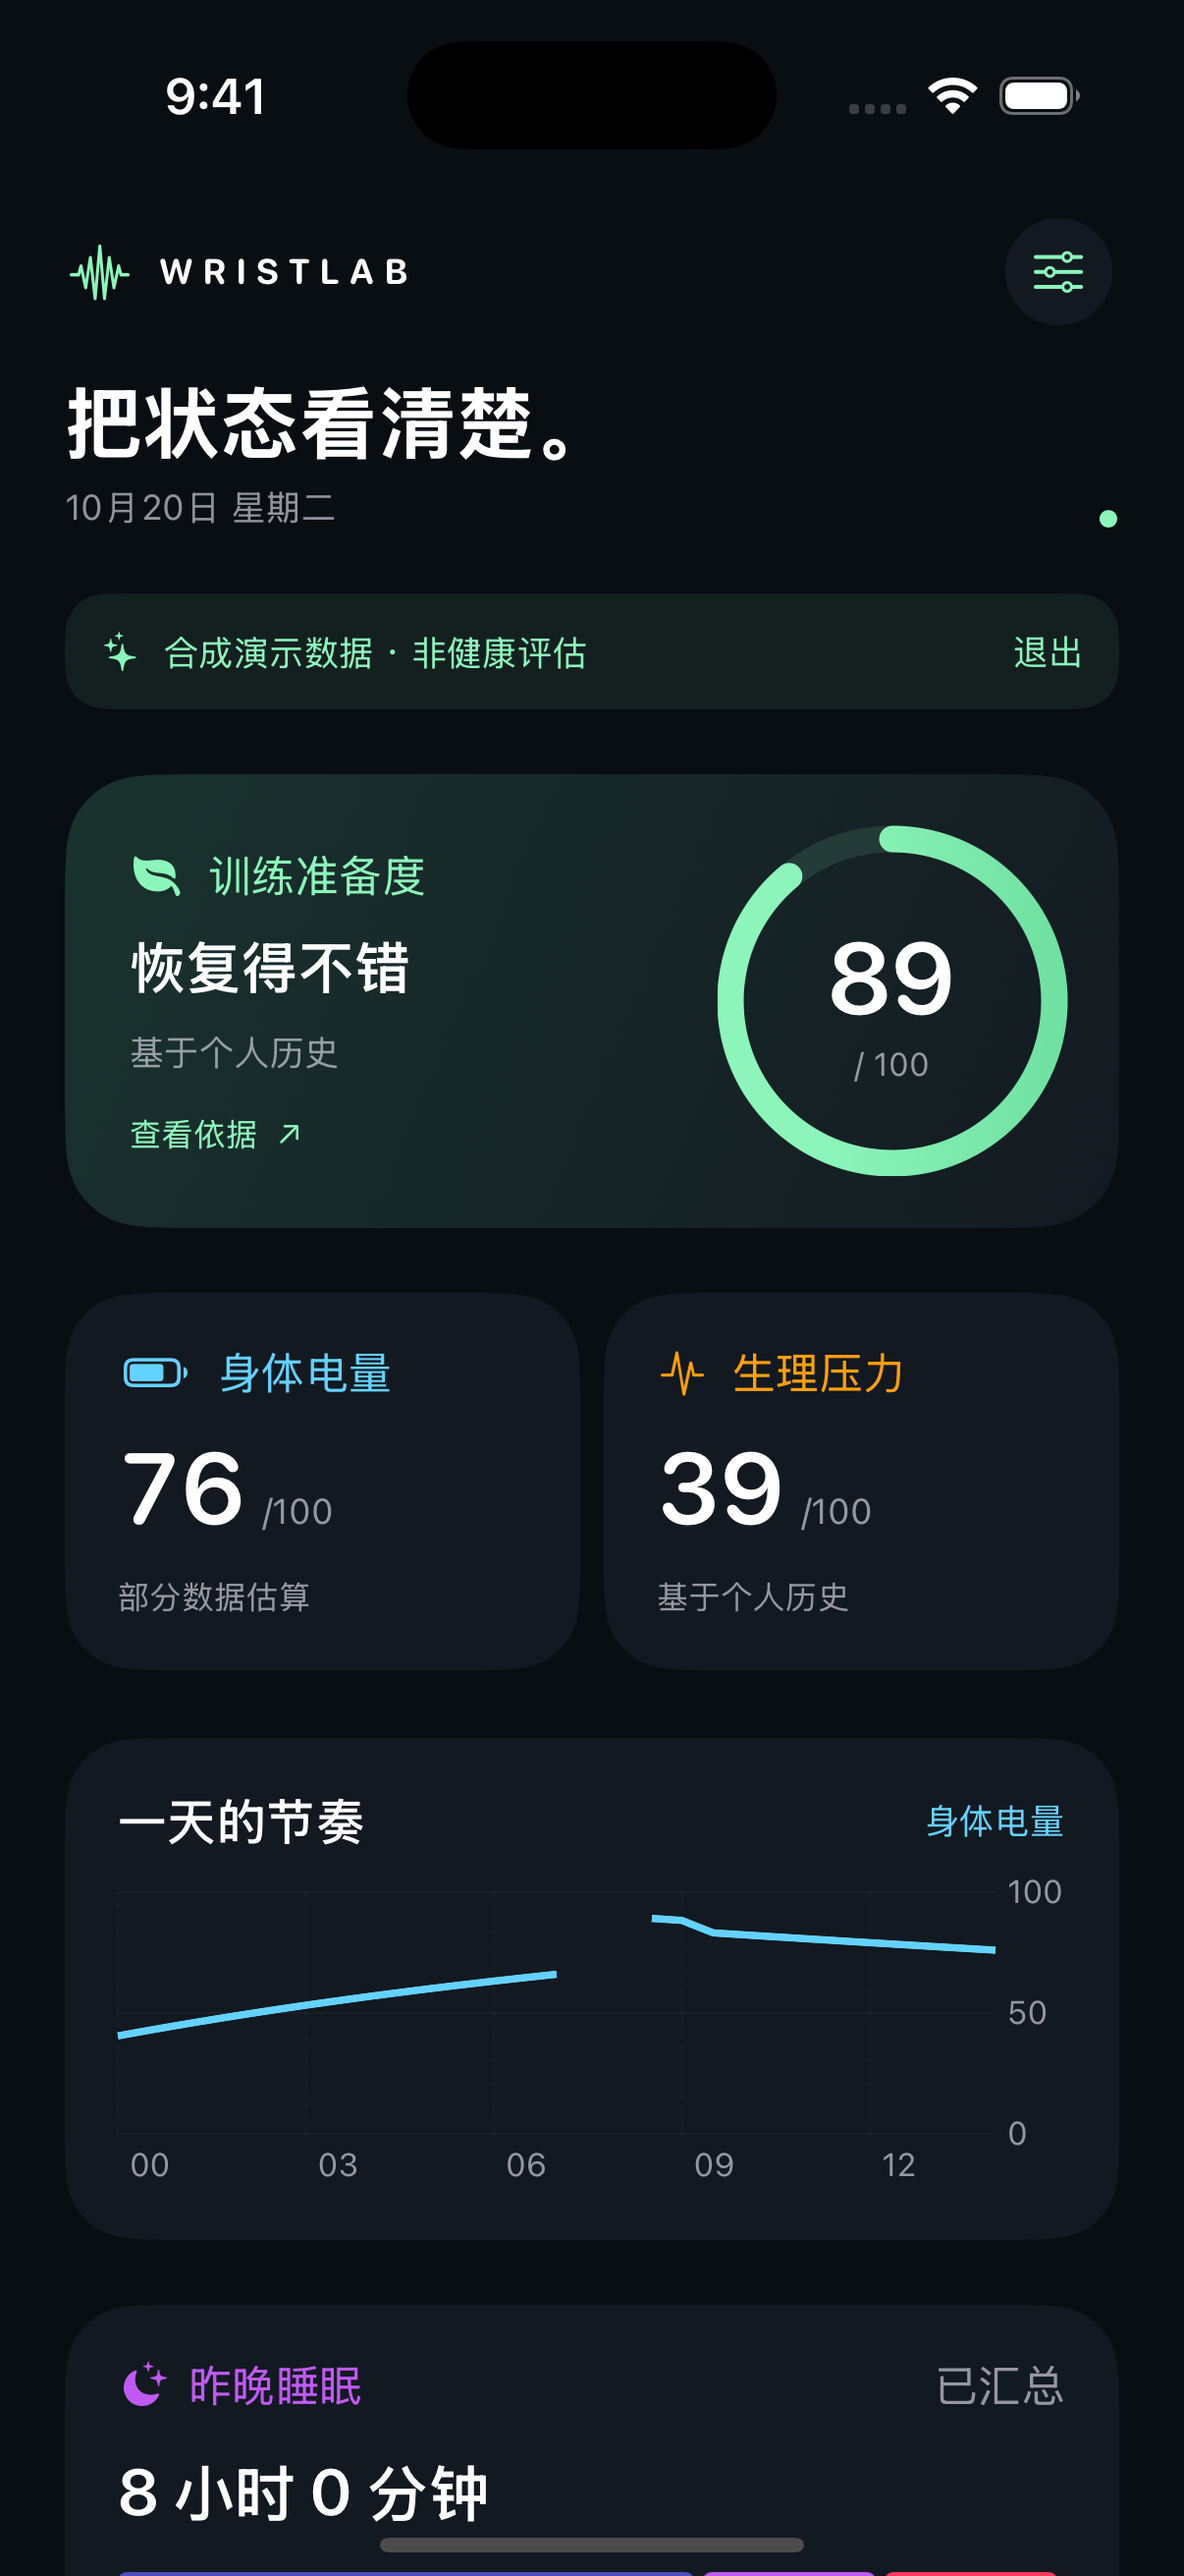
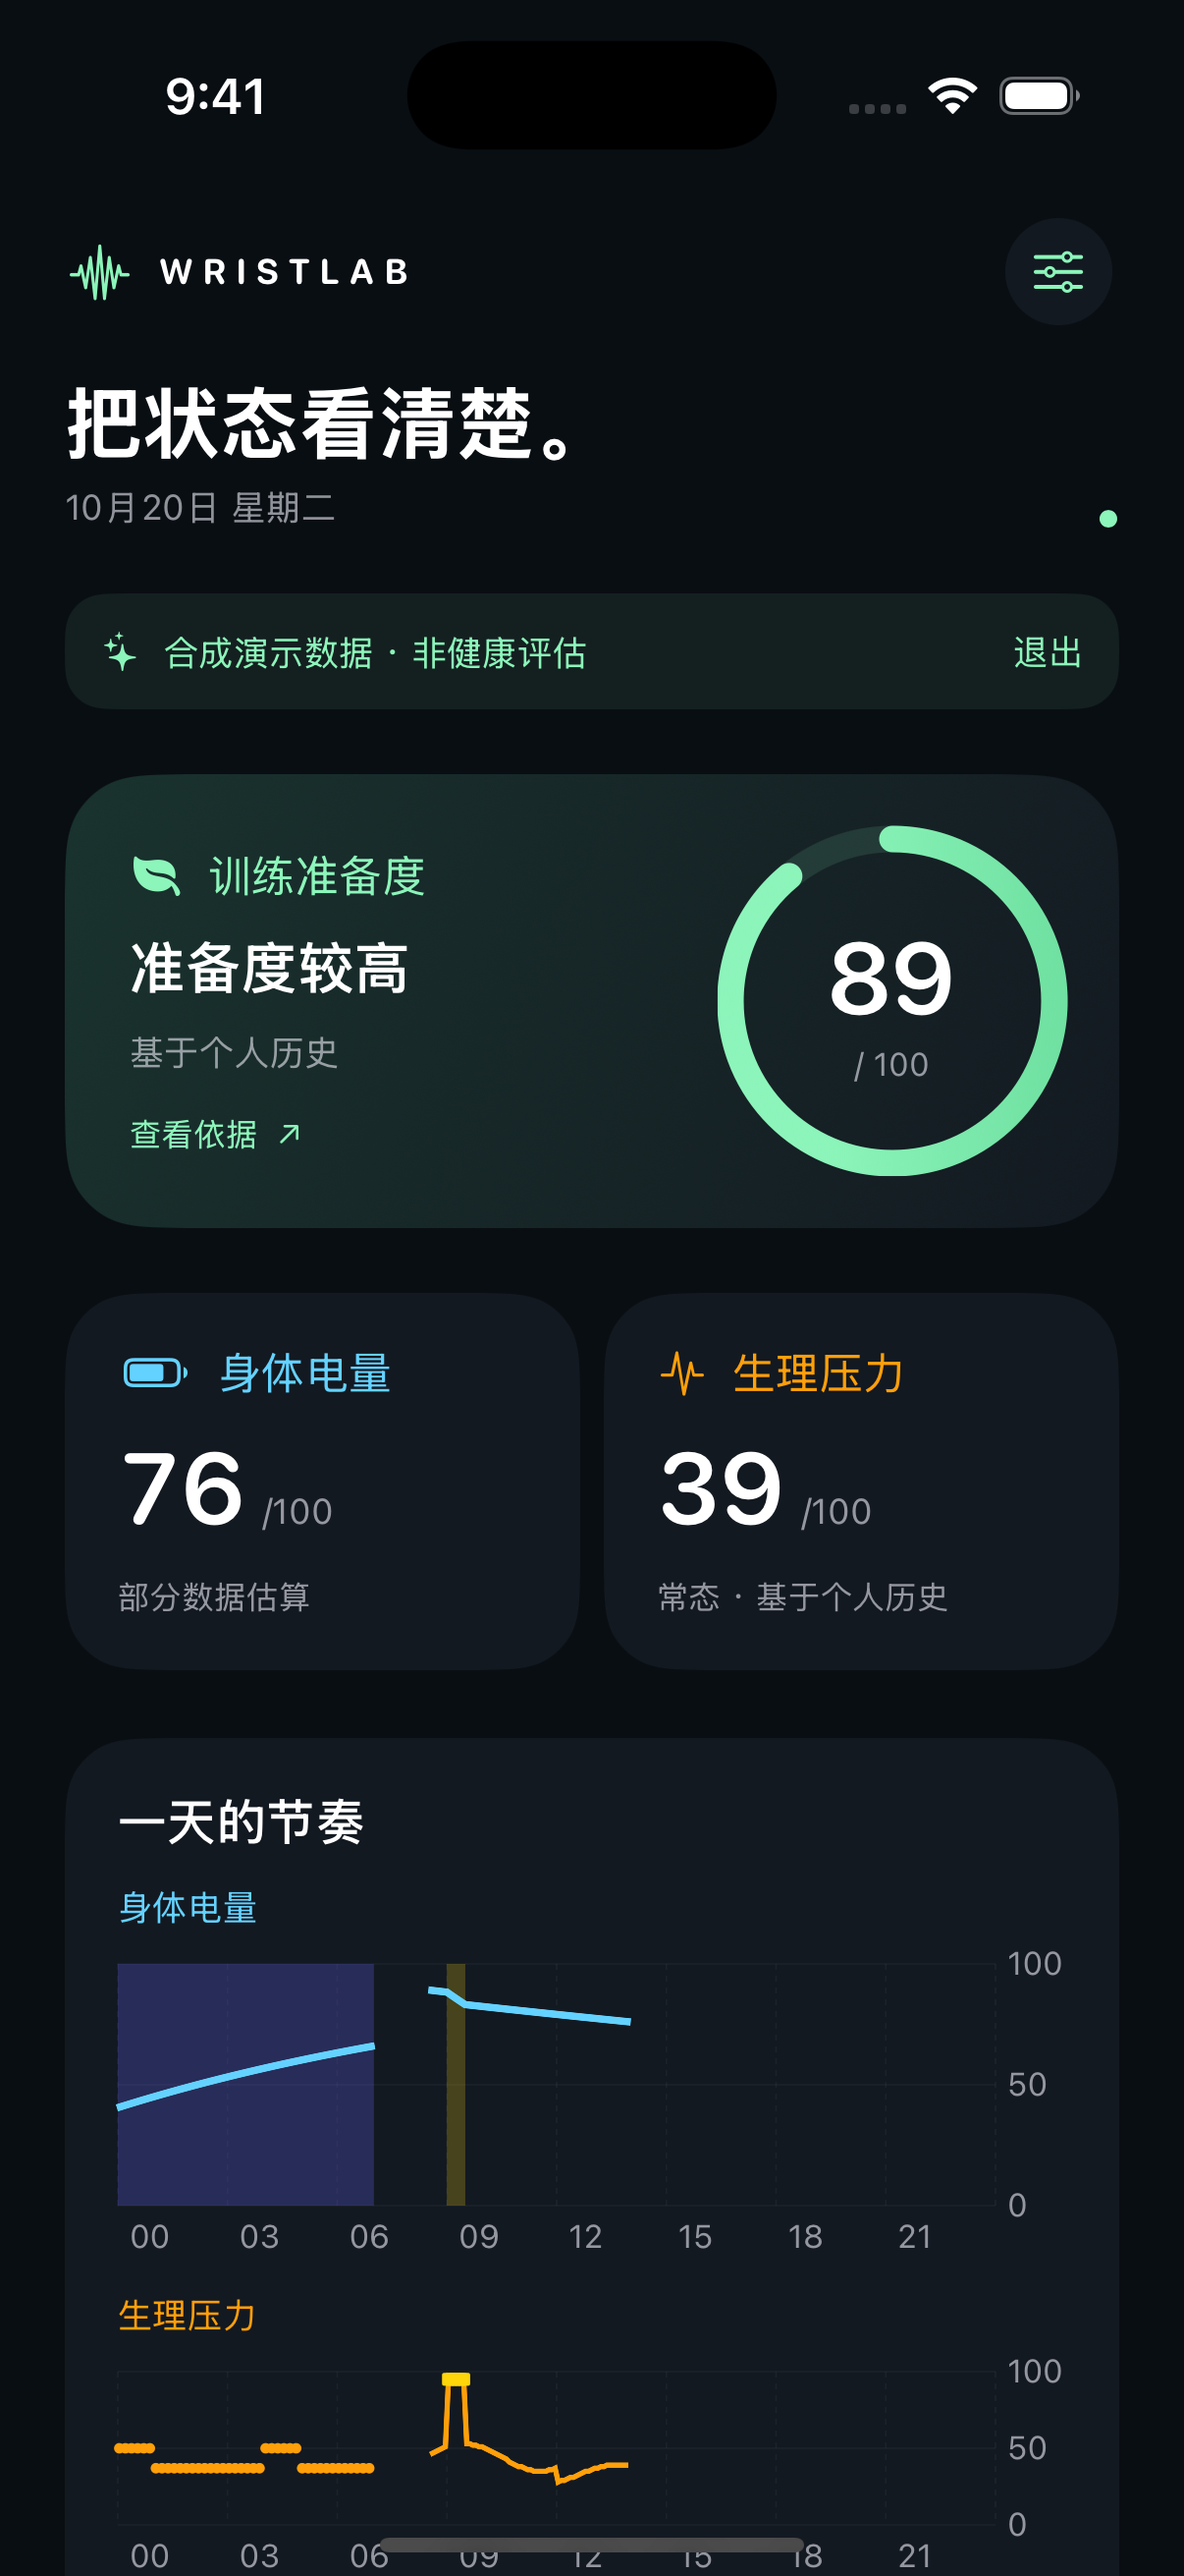
docs: deliver metric insights round and archive its STDD change
Gate 3 confirmed by the user, keeping the stress HRV row direction-only.
Screenshots come from the PR #7 CI run; their source fingerprint matches this
branch. Validation notes and both READMEs describe the new explanations,
day timeline, sleep detail and seven-day trend, and state that real-device
display and VoiceOver are not yet verified. The change is archived under
.stdd/archive with its specs merged into .stdd/specs.

Claude-Session: https://claude.ai/code/session_01B7bKnBQ5fJ4YHdGHzQd9eL

diff --git a/.stdd/archive/2026-10-21-metric-insights/specs/metric-contributions/spec.md b/.stdd/archive/2026-10-21-metric-insights/specs/metric-contributions/spec.md
@@ -1,0 +1,58 @@
+# Spec: metric-contributions
+
+> Change: 2026-10-21-metric-insights | Auto-generated Human View
+
+## Requirements
+
+### Requirement: 准备度贡献分解
+
+#### Scenario: SC-CONTRIB-001
+
+- **GIVEN** 准备度有数值且未过期，contributions含hrv、baselineHRV、zHRV、rhr、baselineRHR、zRHR
+- **WHEN** 生成贡献行
+- **THEN** SHALL 按HRV、静息心率顺序输出两行，各含当前值、个人基线与差值（当前值与基线各按单位取整后相减）
+- **AND** zHRV≥0.5显示“推高准备度”，≤−0.5显示“拉低准备度”，其余显示“接近个人基线”
+- **AND** zRHR同规则；zRHR为正表示静息心率低于基线
+
+### Requirement: 压力贡献分解
+
+#### Scenario: SC-CONTRIB-002
+
+- **GIVEN** 压力有数值且未过期，quality为complete，contributions含hr、baselineHR、zHR、zHRV
+- **WHEN** 生成贡献行
+- **THEN** SHALL 输出心率行（当前值、基线、差值、推高/降低压力/接近个人基线）及仅含方向与效果的HRV行
+- **AND** zHRV为正表示HRV低于基线、推高压力
+- **AND** 跨睡眠边界的partial+sourceConflict桶仍用到HRV，照常列HRV行
+- **AND** zHRV非有限值时不列HRV行
+
+#### Scenario: SC-CONTRIB-003
+
+- **GIVEN** 压力为HR-only（reasons含hrOnly）或mode为activity
+- **WHEN** 生成贡献行
+- **THEN** SHALL 只输出心率行，不输出HRV行
+
+### Requirement: 缺失与过期不输出
+
+#### Scenario: SC-CONTRIB-004
+
+- **GIVEN** 指标无数值、已过期，或某输入缺少当前值、基线或z中任一键
+- **WHEN** 生成贡献行
+- **THEN** SHALL 不为该输入输出行；无数值或过期时结果为空
+- **AND** 任何输出文本不含z值、zHRV等内部键名
+
+### Requirement: 规格分段短句
+
+#### Scenario: SC-CONTRIB-005
+
+- **GIVEN** 准备度或压力显示整数位于各分段边界，或电量有数值，或指标无数值
+- **WHEN** 取分段短句
+- **THEN** SHALL 准备度0–32为“较低”、33–66为“接近个人常态”、67–100为“较高”；压力0–19“低”、20–59“常态”、60–79“偏高”、80–100“高”
+- **AND** 电量返回nil，无数值返回nil
+- **AND** 真实0返回最低分段
+
+#### Scenario: SC-CONTRIB-006
+
+- **GIVEN** 首页准备度卡与压力卡有数值
+- **WHEN** 渲染首页
+- **THEN** SHALL 准备度标题显示“准备度”加分段短句，压力卡显示分段；不出现“给自己一点休息”等建议性文案
+- **AND** 详情页贡献行替代原始contributions键列表

diff --git a/.stdd/archive/2026-10-21-metric-insights/specs/sleep-and-trend-detail/spec.md b/.stdd/archive/2026-10-21-metric-insights/specs/sleep-and-trend-detail/spec.md
@@ -1,0 +1,56 @@
+# Spec: sleep-and-trend-detail
+
+> Change: 2026-10-21-metric-insights | Auto-generated Human View
+
+## Requirements
+
+### Requirement: 阶段时间轴
+
+#### Scenario: SC-SLEEPUI-001
+
+- **GIVEN** 主睡眠含清醒、REM、核心、深睡、未细分与unknown段，另有inBed记录
+- **WHEN** 生成SleepBreakdown泳道
+- **THEN** SHALL 按清醒、REM、核心、深睡、未细分、未知顺序输出泳道段，不含inBed
+- **AND** 泳道取自完整睡眠分段与主睡眠区间的交集，主睡眠内的清醒与未知段同样显示
+- **AND** 不合并不同阶段
+
+### Requirement: 空值不当0
+
+#### Scenario: SC-SLEEPUI-002
+
+- **GIVEN** 睡眠有时长但无任何具体阶段，效率与入睡潜伏为nil
+- **WHEN** 生成阶段时长、占比与指标
+- **THEN** SHALL 具体阶段时长与占比为nil，未细分可显示；效率与入睡用时为nil
+- **AND** 有具体阶段时未出现的具体阶段为0，四项占比和为100%
+
+#### Scenario: SC-SLEEPUI-003
+
+- **GIVEN** 没有主睡眠但有小睡，或完全无睡眠记录
+- **WHEN** 生成SleepBreakdown
+- **THEN** SHALL 不输出泳道；小睡列表照常输出；无记录时总时长为nil
+- **AND** 无任何睡眠分段时已记录清醒时长与次数为nil，界面显示“—”
+
+### Requirement: 睡眠指标
+
+#### Scenario: SC-SLEEPUI-004
+
+- **GIVEN** 报告有效率、入睡潜伏、已记录清醒时长与次数及两段小睡
+- **WHEN** 打开睡眠详情页
+- **THEN** SHALL 显示效率百分比、入睡用时、“已记录清醒”时长与次数、按时间排序的小睡起止与时长；演示模式显示合成标签
+
+### Requirement: 7日趋势切换
+
+#### Scenario: SC-TREND-001
+
+- **GIVEN** history缺少某日条目且某日值为nil，分别选择准备度、睡眠、负荷
+- **WHEN** 生成TrendSeries
+- **THEN** SHALL 输出以报告日为终点的连续7个日历日，缺失日值为nil；有效天数为非nil个数
+- **AND** 睡眠值以小时表示
+- **AND** 均值只按有效天计算，有效天数为0时均值为nil
+- **AND** 日期按固定分析时区的日历日生成，夏令时切换周仍为7个连续日
+
+#### Scenario: SC-TREND-002
+
+- **GIVEN** 首页7日卡片
+- **WHEN** 切换准备度、睡眠、负荷
+- **THEN** SHALL 只为非nil日绘制柱形，页脚显示“有效N/7天”及均值，VoiceOver可读；负荷标为已观测负荷且不显示均值（含未完成与部分观测日）

diff --git a/docs/validation.md b/docs/validation.md
@@ -61,3 +61,9 @@ CI执行`./scripts/check.sh`和`./scripts/build-apple.sh`，构建iPhone、Watch
 失活历史来源已从60日计算窗口的自动候选中排除；显式偏好/单组历史保留，来源变化重建并推进epoch。无电量起点现在区分最近相关夜晚缺HRV、对应RHR和基线不足，手机/Watch直接显示实际X/14进度与原因，详情提供操作建议；时效优先、真实0与未知原因回退保持一致。原评分数值及门槛不变。
 
 50 Core +5 workspace、双端模拟器构建/四Widget配置运行及普通双端签名构建通过，三路复审发现项已闭环。合成13日不足场景完成双端卡片视觉检查，Watch实际点击及滚动说明通过。手机真实刷新已证明当前HR进入评分、压力available且fresh。最终普通两端已安装，Watch启动成功；用户解锁后iPhone重新启动成功、进程存在，用户随后明确确认“两端都有明确原因，详情能打开”，本轮正常版双端提示与详情操作验证闭环。Gate3未确认，不将此记为全部表盘或睡眠输入已验收。
+
+### 解释与日内展示（metric-insights，2026-10-22）
+
+只改iPhone展示与Core纯展示模型，公式、门槛、模型版本、HealthKit读取类型、Watch同步schema不变。新增14个Swift Testing函数：贡献方向/±0.5展示分段/差值、规格分段边界、电量驱动区间（与c515ff6的数值和顺序校验和一致）、时间线断线与裁剪、纽约25小时夏令时日、旧缓存解码、睡眠泳道（真实SleepCalculator含清醒与冲突段）与空值、7日趋势。64 Core + 5 workspace、双端模拟器构建与四Widget注册运行检查通过，[PR #7 CI](https://github.com/mirsery/wristlab/actions/runs/39632665463)通过并生成当前截图。
+
+模拟器视觉检查使用东八区设备显示UTC合成报告，发现并修正时间按设备时区格式化的问题。VoiceOver仅静态审阅标签；真实数据下的首页图表、详情贡献、睡眠详情与7日切换尚未在真机验证。完整TC对照见[测试报告](../.stdd/archive/2026-10-21-metric-insights/test-report.md)。

diff --git a/.stdd/archive/2026-10-21-metric-insights/specs/daily-timeline/spec.md b/.stdd/archive/2026-10-21-metric-insights/specs/daily-timeline/spec.md
@@ -1,0 +1,46 @@
+# Spec: daily-timeline
+
+> Change: 2026-10-21-metric-insights | Auto-generated Human View
+
+## Requirements
+
+### Requirement: 引擎输出电量驱动区间
+
+#### Scenario: SC-TIMELINE-001
+
+- **GIVEN** 合成记录含跨午夜主睡眠、当日午后小睡与当日运动
+- **WHEN** HealthEngine评估当日报告
+- **THEN** SHALL 在energy.asleepIntervals与energy.workoutIntervals写入电量重放使用的区间，并裁剪到分析日起点至asOf
+- **AND** 电量点、准备度、压力数值与改动前一致
+
+### Requirement: 时间线区段
+
+#### Scenario: SC-TIMELINE-002
+
+- **GIVEN** 报告含睡眠与运动区间，部分落在分析日之外或长度为0
+- **WHEN** 生成DayTimeline
+- **THEN** SHALL 输出按开始时间排序、裁剪到分析日起点至asOf、长度大于0的睡眠与运动区段，并区分类型
+- **AND** 分析日按固定分析时区的日历日，夏令时切换日可为23或25小时
+
+#### Scenario: SC-TIMELINE-003
+
+- **GIVEN** 旧仓库状态JSON的EnergyReport缺少两个区间字段
+- **WHEN** 解码并生成DayTimeline
+- **THEN** SHALL 解码成功、区段为空、不崩溃
+
+### Requirement: 曲线断线
+
+#### Scenario: SC-TIMELINE-004
+
+- **GIVEN** 当天压力桶存在时间空隙、无数值桶与运动桶
+- **WHEN** 生成压力分段
+- **THEN** SHALL 只把首尾相接且都有数值的桶连成同一段，空隙或无数值处断开；运动桶标记为运动中
+- **AND** 点位于桶中点，数值取显示整数
+
+#### Scenario: SC-TIMELINE-005
+
+- **GIVEN** 电量点序列中间有nil
+- **WHEN** 生成电量分段
+- **THEN** SHALL 在nil处断开，不插值、不画0
+- **AND** 电量当前值不可显示（覆盖不足、过期、校准或缺失）时不输出电量曲线，界面改为显示原因
+- **AND** 分析日已结束时标记为非今天，界面显示报告日期

diff --git a/README.en.md b/README.en.md
@@ -38,8 +38,8 @@ CI captures the running SwiftUI apps with `--demo`. Synthetic health records pas
 | Body energy | Sleep recharge, activity drain, continuity across midnight, gaps and recalibration |
 | Sleep | Source selection, interval deduplication, stages, primary sleep/naps, seven-day debt and timing regularity |
 | Activity | Existing workouts, HRR zones, observed load, exertion and historical reference ranges |
-| Explanations | Missing-input reasons, baseline counts, partial quality, coverage, versions and timestamps |
-| Apple Watch | Phone-produced snapshots, refresh requests and a body-energy complication |
+| Explanations | Comparison with the personal baseline (raises/lowers and difference), specified tier labels, missing-input reasons, baseline counts, partial quality, coverage, versions and timestamps |
+| Phone and Watch | Phone report with the day's energy and stress over sleep and workouts, sleep detail and a seven-day readiness/sleep/load trend; phone-produced Watch snapshots, refresh requests, and energy, readiness, stress and overview complications |
 | Local controls | Source preferences, fixed analysis time zone, sleep target, cache clearing and offline clear markers |
 
 Real mode starts empty. Reading requires an explicit Apple Health connection. Demo mode is opt-in, visibly synthetic, and isolated from real synchronization caches.

diff --git a/README.md b/README.md
@@ -38,8 +38,8 @@
 | 身体电量 | 睡眠充电、活动耗电、跨日连续；缺口和重新校准明确可见 |
 | 睡眠 | 单来源解析、分期去重、主睡眠/小睡、7日睡眠债与入睡规律性 |
 | 运动 | 只读已有训练，HRR心率分区、已观测负荷、体能输出与历史参考区间 |
-| 数据解释 | 缺失原因、基线数量、部分质量、覆盖度、版本和更新时间 |
-| 双端体验 | 手机报告与趋势；手表快照；电量/准备度/压力及总览表盘组件 |
+| 数据解释 | 与个人基线比较（推高/拉低及差值）、规格分段短句、缺失原因、基线数量、部分质量、覆盖度、版本和更新时间 |
+| 双端体验 | 手机报告、一天的节奏（电量+压力，标出睡眠/运动）、睡眠详情与7日准备度/睡眠/负荷趋势；手表快照；电量/准备度/压力及总览表盘组件 |
 | 本地控制 | 选源、固定分析时区、目标设置、清缓存/停止读取、离线清除标记 |
 
 真实模式默认空状态，用户主动连接 Apple 健康后读取。演示需要主动进入，始终标识合成数据，不写入真实同步缓存。

diff --git a/.stdd/archive/2026-10-21-metric-insights/tasks.md b/.stdd/archive/2026-10-21-metric-insights/tasks.md
@@ -5,6 +5,7 @@
 - [x] S3：SleepBreakdown、TrendSeries（SLEEPUI-001～003、TREND-001）；SleepDetailView与趋势Picker（SLEEPUI-004、TREND-002）。
 - [x] C1三路复审（发现已处置）、全量check/build、Diff审查、失败模式、经验、设计调整、测试报告。
 - [x] 模拟器合成演示截图视觉检查（东八区设备显示UTC报告，含时区修正前后）。
-- [ ] Gate 3用户验收（不代批）。
-- [ ] Deliver：更新docs/screenshots（iphone.png仍为旧界面）、docs/validation.md本轮记录、README数据解释行；归档change；PR #5合并后rebase到main。
+- [x] Gate 3用户验收：用户确认；ADJ-005保持只显示方向。
+- [x] Deliver：docs/screenshots换为PR #7 CI生成的截图（指纹一致）、docs/validation.md与双语README更新、归档change。
+- [ ] PR #5合并后把PR #7 rebase到main。
 - [ ] 真机：用户在iPhone上查看首页两张图、详情贡献、睡眠详情与7日切换（真实数据）。
